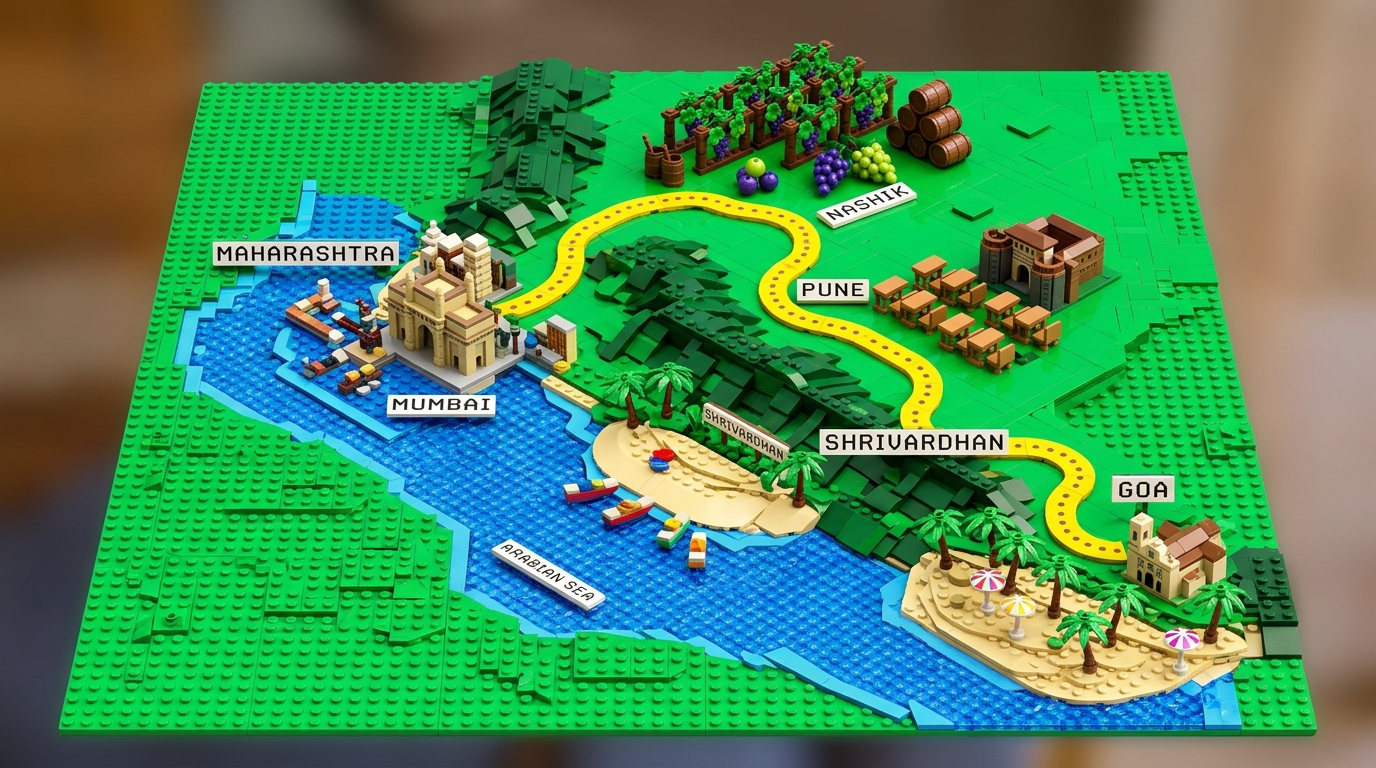
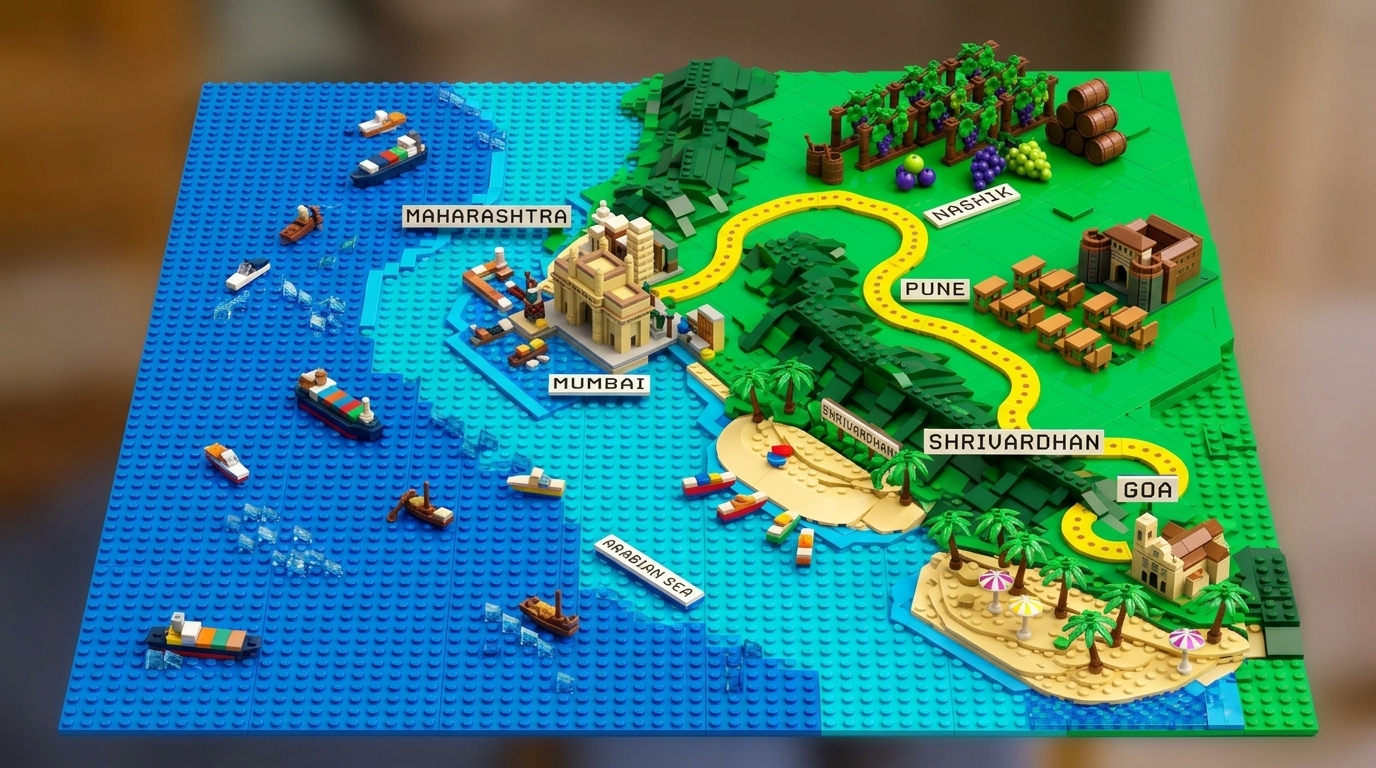
Update India pin to tricolor, add Arabian Sea to India map, and remove redundant city chips

diff --git a/index.html b/index.html
@@ -11,7 +11,7 @@
   <link rel="preconnect" href="https://fonts.googleapis.com">
   <link rel="preconnect" href="https://fonts.gstatic.com" crossorigin>
   <link href="https://fonts.googleapis.com/css2?family=Fredoka:wght@400;600;700&family=Press+Start+2P&family=Outfit:wght@400;600;800;900&display=swap" rel="stylesheet">
-  <link rel="stylesheet" href="style.css?v=20260917-3">
+  <link rel="stylesheet" href="style.css?v=20260917-4">
 </head>
 <body class="theme-home">
   <!-- Persistent Top Lego Navigation Bar -->
@@ -230,9 +230,9 @@
             </button>
 
             <!-- India Pin: Clicking opens the newly created India map -->
-            <button class="map-pin pin-world-india cluster-pin" onclick="openIndiaMap(event)" title="Explore India (5 Trips)" aria-label="Explore India">
-              <span class="pin-dot pulse-dot">🇮🇳</span>
-              <span class="pin-label">India (5 Trips) 🔍</span>
+            <button class="map-pin pin-world-india cluster-pin" onclick="openIndiaMap(event)" title="India" aria-label="India">
+              <span class="pin-dot tricolor-dot">🇮🇳</span>
+              <span class="pin-label">India</span>
             </button>
           </div>
 
@@ -248,6 +248,16 @@
             </div>
 
             <!-- All 5 India Options -->
+            <button class="map-pin pin-india-nashik" data-dest="nashik" onclick="openTripCard('nashik', event)" title="Nashik 2026" aria-label="Nashik 2026">
+              <span class="pin-dot">🍇</span>
+              <span class="pin-label">Nashik 2026</span>
+            </button>
+
+            <button class="map-pin pin-india-mumbai" data-dest="mumbai" onclick="openTripCard('mumbai', event)" title="Mumbai 2025" aria-label="Mumbai 2025">
+              <span class="pin-dot">🏙</span>
+              <span class="pin-label">Mumbai 2025</span>
+            </button>
+
             <button class="map-pin pin-india-pune" data-dest="pune" onclick="openTripCard('pune', event)" title="Pune 2022" aria-label="Pune 2022">
               <span class="pin-dot">🎓</span>
               <span class="pin-label">Pune 2022</span>
@@ -258,19 +268,9 @@
               <span class="pin-label">Shrivardhan 2023</span>
             </button>
 
-            <button class="map-pin pin-india-mumbai" data-dest="mumbai" onclick="openTripCard('mumbai', event)" title="Mumbai 2025" aria-label="Mumbai 2025">
-              <span class="pin-dot">🏙</span>
-              <span class="pin-label">Mumbai 2025</span>
-            </button>
-
             <button class="map-pin pin-india-goa" data-dest="goa" onclick="openTripCard('goa', event)" title="Goa 2025" aria-label="Goa 2025">
               <span class="pin-dot">🌴</span>
               <span class="pin-label">Goa 2025</span>
-            </button>
-
-            <button class="map-pin pin-india-nashik" data-dest="nashik" onclick="openTripCard('nashik', event)" title="Nashik 2026" aria-label="Nashik 2026">
-              <span class="pin-dot">🍇</span>
-              <span class="pin-label">Nashik 2026</span>
             </button>
           </div>
 
@@ -295,22 +295,6 @@
                 </div>
               </div>
             </div>
-          </div>
-        </div>
-
-        <div class="travel-quick-selector">
-          <span class="selector-title">Select Any Destination:</span>
-          <div class="chips-list">
-            <button class="brick-chip" data-dest="london" onclick="openTripCard('london', event)">🇬🇧 London 2023</button>
-            <button class="brick-chip" data-dest="chicago" onclick="openTripCard('chicago', event)">🏙 Chicago 2027</button>
-            <button class="brick-chip" data-dest="paris" onclick="openTripCard('paris', event)">🗼 Paris 2028</button>
-            <button class="brick-chip" data-dest="switzerland" onclick="openTripCard('switzerland', event)">🏔 Switzerland 2029</button>
-            <button class="brick-chip chip-india-accent" onclick="openIndiaMap(event)">🇮🇳 Explore India (5) 🔍</button>
-            <button class="brick-chip" data-dest="pune" onclick="openTripCard('pune', event)">🎓 Pune 2022</button>
-            <button class="brick-chip" data-dest="shrivardhan" onclick="openTripCard('shrivardhan', event)">🌊 Shrivardhan 2023</button>
-            <button class="brick-chip" data-dest="mumbai" onclick="openTripCard('mumbai', event)">🏙 Mumbai 2025</button>
-            <button class="brick-chip" data-dest="goa" onclick="openTripCard('goa', event)">🌴 Goa 2025</button>
-            <button class="brick-chip" data-dest="nashik" onclick="openTripCard('nashik', event)">🍇 Nashik 2026</button>
           </div>
         </div>
 
@@ -492,6 +476,6 @@
 
   </main>
 
-  <script src="app.js?v=20260917-3"></script>
+  <script src="app.js?v=20260917-4"></script>
 </body>
 </html>

diff --git a/style.css b/style.css
@@ -787,27 +787,48 @@ body {
 .pin-world-london { top: 27%; left: 44%; }
 .pin-world-paris { top: 35%; left: 47%; }
 .pin-world-switzerland { top: 40%; left: 52%; }
-.pin-world-india { top: 54%; left: 68%; }
-
 /* India cluster pin on world map with pulsating attraction */
 .cluster-pin {
-  background: #ffea00 !important;
-  border-color: #d90429 !important;
-  animation: pulseCluster 2s infinite;
+  animation: pulseIndia 2.2s infinite;
 }
 
-@keyframes pulseCluster {
-  0% { box-shadow: 0 0 0 0 rgba(217, 4, 41, 0.6), 0 3px 0 #111; }
-  70% { box-shadow: 0 0 0 10px rgba(217, 4, 41, 0), 0 3px 0 #111; }
-  100% { box-shadow: 0 0 0 0 rgba(217, 4, 41, 0), 0 3px 0 #111; }
+@keyframes pulseIndia {
+  0% { box-shadow: 0 0 0 0 rgba(255, 153, 51, 0.7), 0 3px 0 #111; }
+  50% { box-shadow: 0 0 0 8px rgba(19, 136, 8, 0.35), 0 3px 0 #111; }
+  100% { box-shadow: 0 0 0 0 rgba(255, 153, 51, 0), 0 3px 0 #111; }
 }
 
-/* INDIA ZOOM MAP PINS */
-.pin-india-pune { top: 48%; left: 58%; }
-.pin-india-shrivardhan { top: 62%; left: 34%; }
-.pin-india-mumbai { top: 36%; left: 32%; }
-.pin-india-goa { top: 80%; left: 50%; }
-.pin-india-nashik { top: 22%; left: 54%; }
+/* India Pin on World Map with Tricolor Accent */
+.pin-world-india {
+  top: 54%;
+  left: 68%;
+  background: #ffffff !important;
+  border: 2px solid #ff9933 !important;
+  box-shadow: 0 3px 0 #111, 0 0 10px rgba(255, 153, 51, 0.4);
+}
+
+.pin-world-india:hover,
+.pin-world-india:active {
+  background: #fffdf5 !important;
+  border-color: #138808 !important;
+  transform: scale(1.15) translateY(-2px);
+  box-shadow: 0 4px 0 #111, 0 0 14px rgba(19, 136, 8, 0.5);
+}
+
+.tricolor-dot {
+  font-size: 1.15rem;
+  line-height: 1;
+  display: inline-flex;
+  align-items: center;
+  justify-content: center;
+}
+
+/* INDIA ZOOM MAP PINS (Aligned with Arabian Sea coastline) */
+.pin-india-nashik { top: 18%; left: 64%; }
+.pin-india-mumbai { top: 36%; left: 42%; }
+.pin-india-pune { top: 48%; left: 68%; }
+.pin-india-shrivardhan { top: 60%; left: 56%; }
+.pin-india-goa { top: 78%; left: 78%; }
 
 @media (max-width: 600px) {
   .map-pin {
